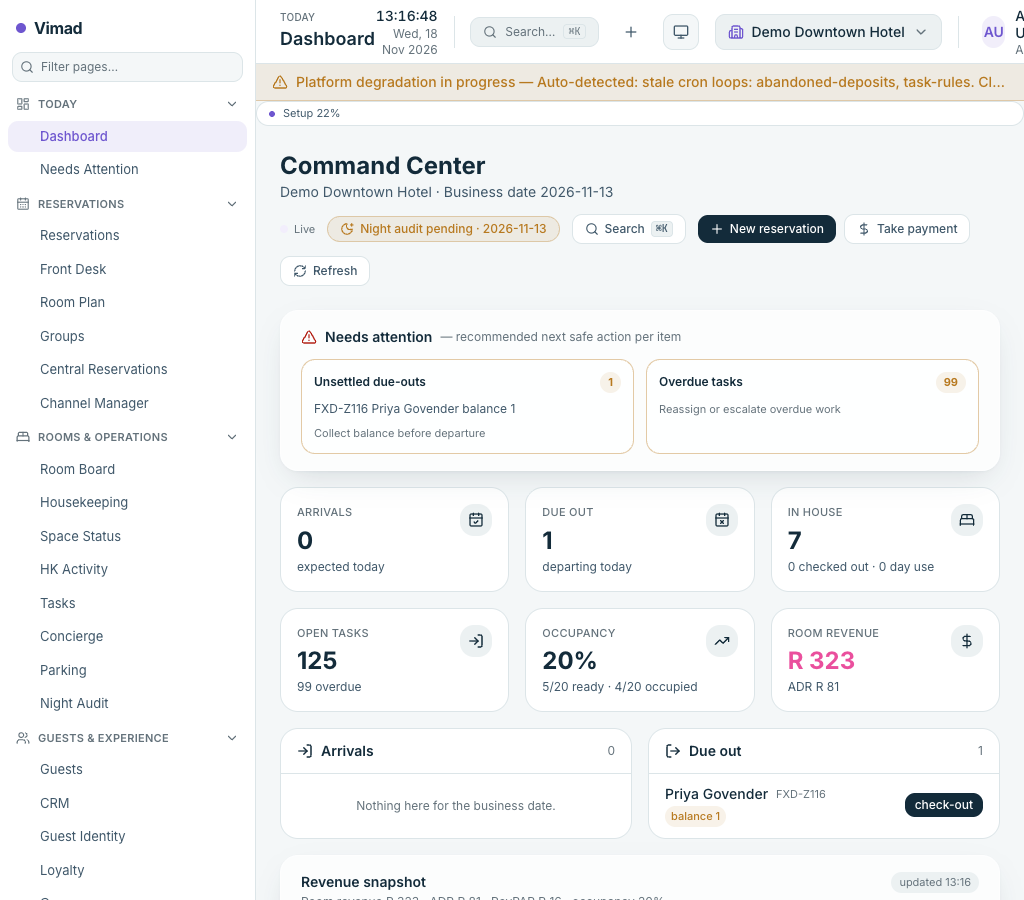
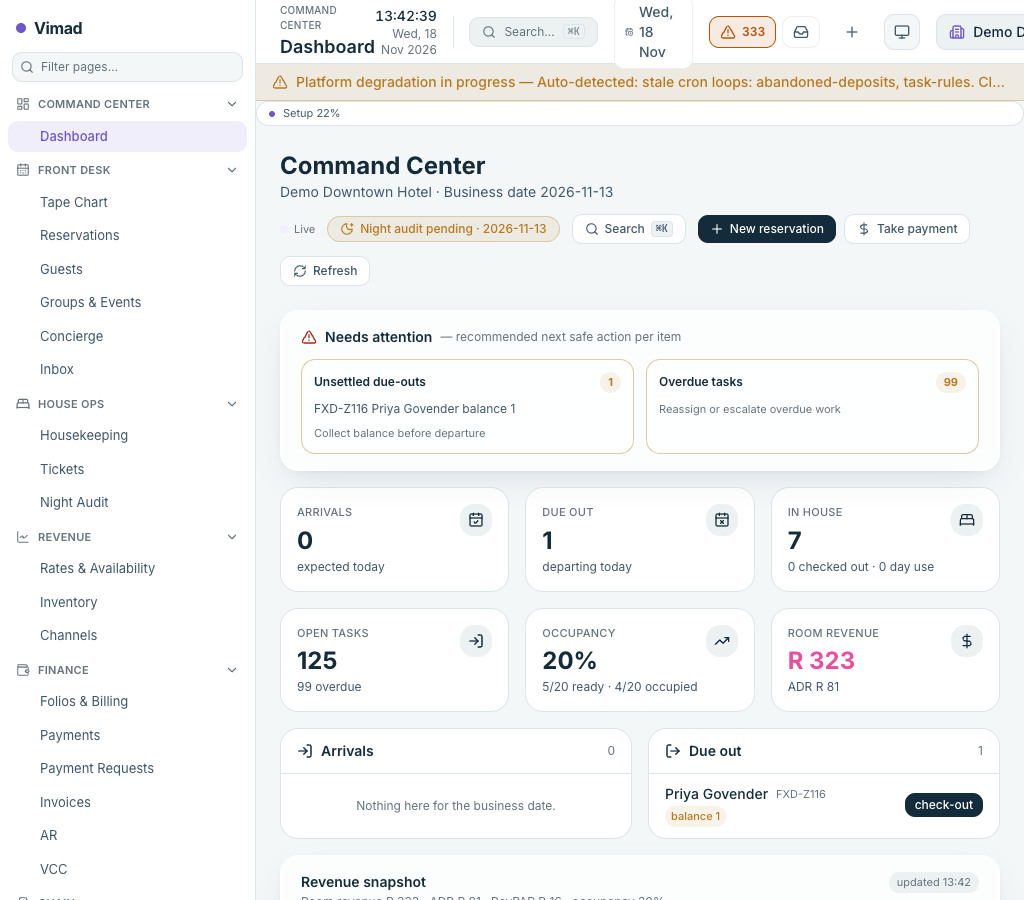
feat(web): topbar chassis — business-date pill + alert cluster (Needs Attention + Inbox), notifications excluded (mock hook filed)

diff --git a/apps/web/src/components/layout/AlertCluster.tsx b/apps/web/src/components/layout/AlertCluster.tsx
@@ -1,0 +1,80 @@
+/* apps/web/src/components/layout/AlertCluster.tsx
+ * Topbar alert cluster (blueprint S4): Needs Attention open count + Inbox
+ * unread, polled every 60s. NOT included: notifications — useNotifications
+ * is still mock data (filed as a bug); it joins when wired to the real API. */
+import { useEffect, useState } from 'react';
+import { Link } from 'react-router-dom';
+import { AlertTriangle, Inbox } from 'lucide-react';
+import { listExceptions } from '../../api/exceptions';
+import { commsApi } from '../../api/comms';
+
+const CHIP = 'inline-flex h-8 items-center gap-1.5 rounded-md border px-2.5 text-sm';
+const BASE = {
+  borderColor: 'var(--hq-hairline)',
+  background: 'var(--hq-surface-1)',
+  color: 'var(--text-secondary)',
+} as const;
+
+export function AlertCluster() {
+  const [needsAttention, setNeedsAttention] = useState<number | null>(null);
+  const [inboxUnread, setInboxUnread] = useState<number | null>(null);
+
+  useEffect(() => {
+    let alive = true;
+    const tick = async () => {
+      try {
+        const ex = await listExceptions('open');
+        if (!alive) return;
+        setNeedsAttention(ex?.counts?.open ?? ex?.items?.length ?? 0);
+      } catch {
+        if (alive) setNeedsAttention(null);
+      }
+      try {
+        const inbox = await commsApi.inbox('open');
+        const threads = Array.isArray(inbox) ? inbox : (inbox?.data ?? []);
+        const unread = (threads as Array<{ unreadForStaff?: number }>).reduce(
+          (n, t) => n + (t.unreadForStaff ?? 0),
+          0
+        );
+        if (alive) setInboxUnread(unread);
+      } catch {
+        if (alive) setInboxUnread(null);
+      }
+    };
+    tick();
+    const id = setInterval(tick, 60_000);
+    return () => {
+      alive = false;
+      clearInterval(id);
+    };
+  }, []);
+
+  const alertStyle = needsAttention
+    ? {
+        borderColor: 'rgb(180 83 9)',
+        background: 'rgb(180 83 9 / 0.12)',
+        color: 'rgb(180 83 9)',
+      }
+    : BASE;
+
+  return (
+    <div className="flex items-center gap-1.5">
+      <Link to="/app/exceptions" className={CHIP} style={alertStyle} title="Needs Attention queue">
+        <AlertTriangle className="h-4 w-4" />
+        {needsAttention !== null && (
+          <span className="text-xs font-semibold" style={{ fontVariantNumeric: 'tabular-nums' }}>
+            {needsAttention}
+          </span>
+        )}
+      </Link>
+      <Link to="/app/comms" className={CHIP} style={BASE} title="Inbox">
+        <Inbox className="h-4 w-4" />
+        {inboxUnread !== null && inboxUnread > 0 && (
+          <span className="text-xs font-semibold" style={{ fontVariantNumeric: 'tabular-nums' }}>
+            {inboxUnread}
+          </span>
+        )}
+      </Link>
+    </div>
+  );
+}

diff --git a/apps/web/src/components/layout/BusinessDatePill.tsx b/apps/web/src/components/layout/BusinessDatePill.tsx
@@ -1,0 +1,30 @@
+/* apps/web/src/components/layout/BusinessDatePill.tsx
+ * Business date pill (blueprint S4 topbar). V1 shows the operating date and
+ * links to Night Audit; the audit-state dot + date jumper land with the
+ * night-audit console migration (Phase 6) when business date becomes a
+ * first-class store entity. */
+import { Link } from 'react-router-dom';
+import { CalendarClock } from 'lucide-react';
+
+export function BusinessDatePill() {
+  const today = new Date().toLocaleDateString('en-ZA', {
+    weekday: 'short',
+    day: 'numeric',
+    month: 'short',
+  });
+  return (
+    <Link
+      to="/app/night-audit"
+      className="hidden items-center gap-1.5 rounded-md border px-2.5 py-1.5 text-sm lg:inline-flex"
+      style={{
+        borderColor: 'var(--hq-hairline)',
+        background: 'var(--hq-surface-1)',
+        color: 'var(--text-secondary)',
+      }}
+      title="Business date — open Night Audit"
+    >
+      <CalendarClock className="h-4 w-4" />
+      <span className="font-medium">{today}</span>
+    </Link>
+  );
+}

diff --git a/apps/web/src/components/layout/Topbar.tsx b/apps/web/src/components/layout/Topbar.tsx
@@ -6,6 +6,8 @@ import { ChevronDown, LogOut, Search, Settings } from 'lucide-react';
 import GlobalCreateMenu from './GlobalCreateMenu';
 import { useAuth } from '../../hooks/useAuth';
 import { PropertySwitcher } from './PropertySwitcher';
+import { BusinessDatePill } from './BusinessDatePill';
+import { AlertCluster } from './AlertCluster';
 import { ThemeToggle } from '../theme/themeToggle';
 import { useMemo } from 'react';
 import { NAV_GROUPS } from '../../lib/navGroups';
@@ -74,6 +76,8 @@ export function Topbar() {
           Search…
           <kbd className="rounded border border-border px-1 text-[10px]">⌘K</kbd>
         </button>
+        <BusinessDatePill />
+        <AlertCluster />
         <GlobalCreateMenu />
         <ThemeToggle />
 
